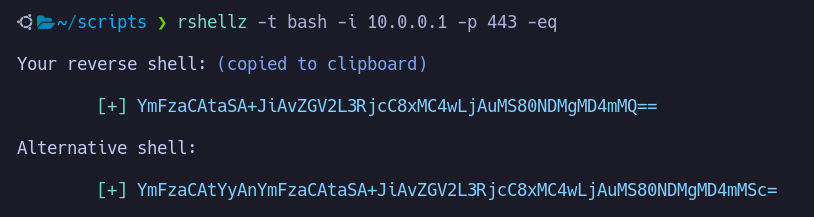
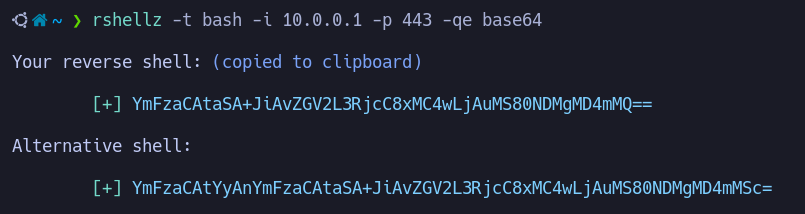
Update to v1.1
- Added urlencode support.
- Multiple fixes.

diff --git a/README.md b/README.md
@@ -2,7 +2,7 @@
     <img
       alt="rshellz"
       src="https://github.com/Brsalcedom/rshellz/blob/main/assets/banner.png"
-      width="640"
+      width="580"
     />
 </p>
 
@@ -40,12 +40,13 @@ Example: `rshellz -t bash -i 10.0.0.1 -p 443`.
 -t SHELL	: Type of shell
 -i IP		: Local ip address
 -p PORT		: Local port
--e		: Base64 encode
+-e ENCODING	: Encode to base64 / urlencode
 -q		: Hide banner
 ```
 ### Shells  
 
 The following shell types are supported.
+
 - bash
 - perl
 - php
@@ -56,8 +57,15 @@ The following shell types are supported.
 - xterm
 
 ### Encoding
-  
-You can use `-e` to **base64** encode the payload.
+
+There are two encoding formats available at the moment.
+
+- base64
+- urlencode
+
+You can use `-e` flag to specify the encoding.
 
 ![B64 Encode](assets/b64-encode.png)
+
+![URL Encode](assets/url-encode.png)
   
